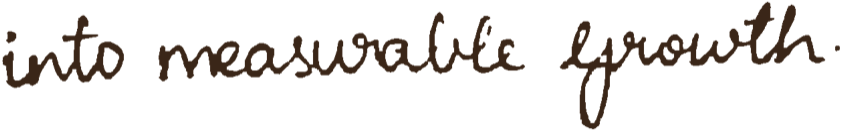
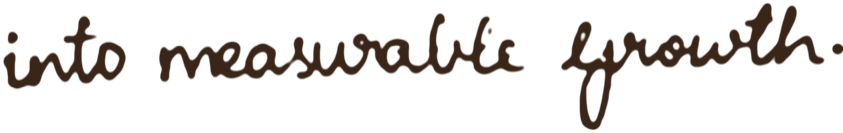
Handwriting: smoothed, even ink strokes (no jagged edges or patchy shine); full stop kept

diff --git a/index.html b/index.html
@@ -11,11 +11,11 @@
 <link rel="preconnect" href="https://fonts.googleapis.com" />
 <link rel="preconnect" href="https://fonts.gstatic.com" crossorigin />
 <link href="https://fonts.googleapis.com/css2?family=Fraunces:opsz,wght,SOFT@9..144,400..800,50&display=swap" rel="stylesheet" />
-<link rel="stylesheet" href="styles/main.css?v=20261111s" />
+<link rel="stylesheet" href="styles/main.css?v=20261111t" />
 <link rel="icon" type="image/png" href="assets/logo-hy.png" />
 <!-- first-screen images: start downloading immediately (keep ?v in sync with ASSET_V in app.js) -->
-<link rel="preload" as="image" href="assets/objects/notebook.avif?v=20261111s" fetchpriority="high" />
-<link rel="preload" as="image" href="assets/signature.png?v=20261111s" fetchpriority="high" />
+<link rel="preload" as="image" href="assets/objects/notebook.avif?v=20261111t" fetchpriority="high" />
+<link rel="preload" as="image" href="assets/signature.png?v=20261111t" fetchpriority="high" />
 
 <!-- JSON-LD -->
 <script type="application/ld+json">
@@ -177,6 +177,6 @@
 <script src="vendor/ScrollTrigger.min.js"></script>
 <script src="vendor/lenis.min.js"></script>
 
-<script type="module" src="scripts/app.js?v=20261111s"></script>
+<script type="module" src="scripts/app.js?v=20261111t"></script>
 </body>
 </html>

diff --git a/scripts/app.js b/scripts/app.js
@@ -1,9 +1,9 @@
 // app.js — motion orchestration, desk interactions, section rendering.
-import { play, playFile } from "./sound.js?v=20261111s";
-import { initMusic } from "./music.js?v=20261111s";
+import { play, playFile } from "./sound.js?v=20261111t";
+import { initMusic } from "./music.js?v=20261111t";
 import {
   meta, about, kit, tools, experience, projects, playlist,
-} from "./content.js?v=20261111s";
+} from "./content.js?v=20261111t";
 
 const { gsap, ScrollTrigger, Lenis } = window;
 gsap.registerPlugin(ScrollTrigger);
@@ -13,7 +13,7 @@ const isMobile = matchMedia("(max-width: 860px)").matches;
 const $ = (s, r = document) => r.querySelector(s);
 const $$ = (s, r = document) => [...r.querySelectorAll(s)];
 // bump with the ?v= in index.html whenever an image in assets/ is replaced, so browsers refetch it
-const ASSET_V = "20261111s";
+const ASSET_V = "20261111t";
 
 // ------------------------------------------------------------------
 // Single shared RAF: Lenis + GSAP ticker

diff --git a/scripts/content.js b/scripts/content.js
@@ -58,8 +58,8 @@ export const kit = [
       // her own handwriting for the title and tagline (transparent PNGs, ink #3A2618).
       // Each entry = the lines of one block; the text above stays for screen readers / search.
       hand: [
-        [{ src: "assets/hand-title.png", w: 1400, h: 285, tilt: 1.7 }],
-        [{ src: "assets/hand-tagline-1.png", w: 1393, h: 164, tilt: 1.2 }, { src: "assets/hand-tagline-2.png", w: 842, h: 131, tilt: 1.2 }],
+        [{ src: "assets/hand-title.png", w: 1400, h: 287, tilt: 1.7 }],
+        [{ src: "assets/hand-tagline-1.png", w: 1392, h: 165, tilt: 1.2 }, { src: "assets/hand-tagline-2.png", w: 843, h: 133, tilt: 1.2 }],
       ] },
     desk: { x: 19, y: 12, w: 58, r: -10 },
     chaos: { x: 3, y: 53, w: 38, r: 0 },   // chaos mode: pushed to the bottom-left corner

diff --git a/scripts/music.js b/scripts/music.js
@@ -7,7 +7,7 @@
 //    press of play, so nothing from Spotify loads until a visitor asks for music.
 //    Logged-in Spotify users hear full songs; everyone else hears 30-second previews.
 
-import { isMuted, setMuted } from "./sound.js?v=20261111s";
+import { isMuted, setMuted } from "./sound.js?v=20261111t";
 
 const ICON = {
   prev: '<svg viewBox="0 0 24 24" aria-hidden="true"><path d="M11 6.5v11L2.5 12zM21.5 6.5v11L13 12z"/></svg>',
